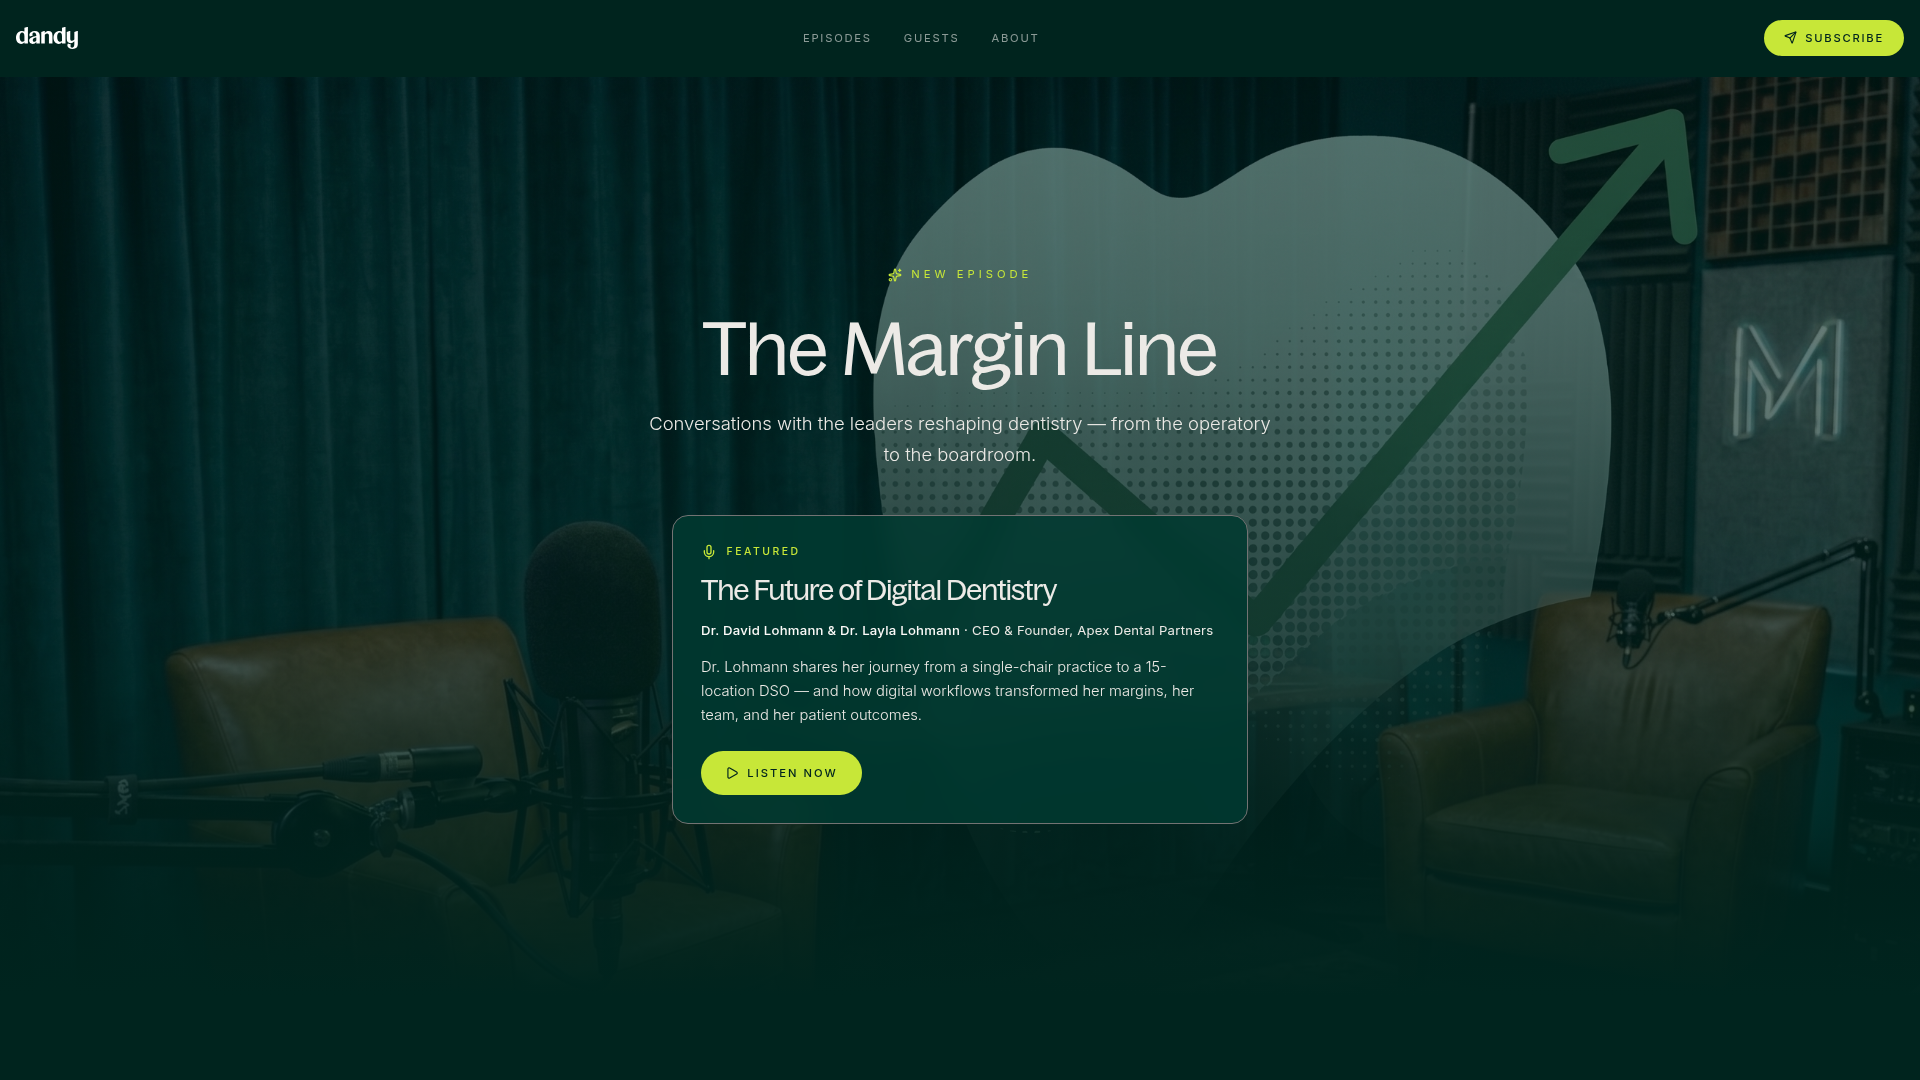
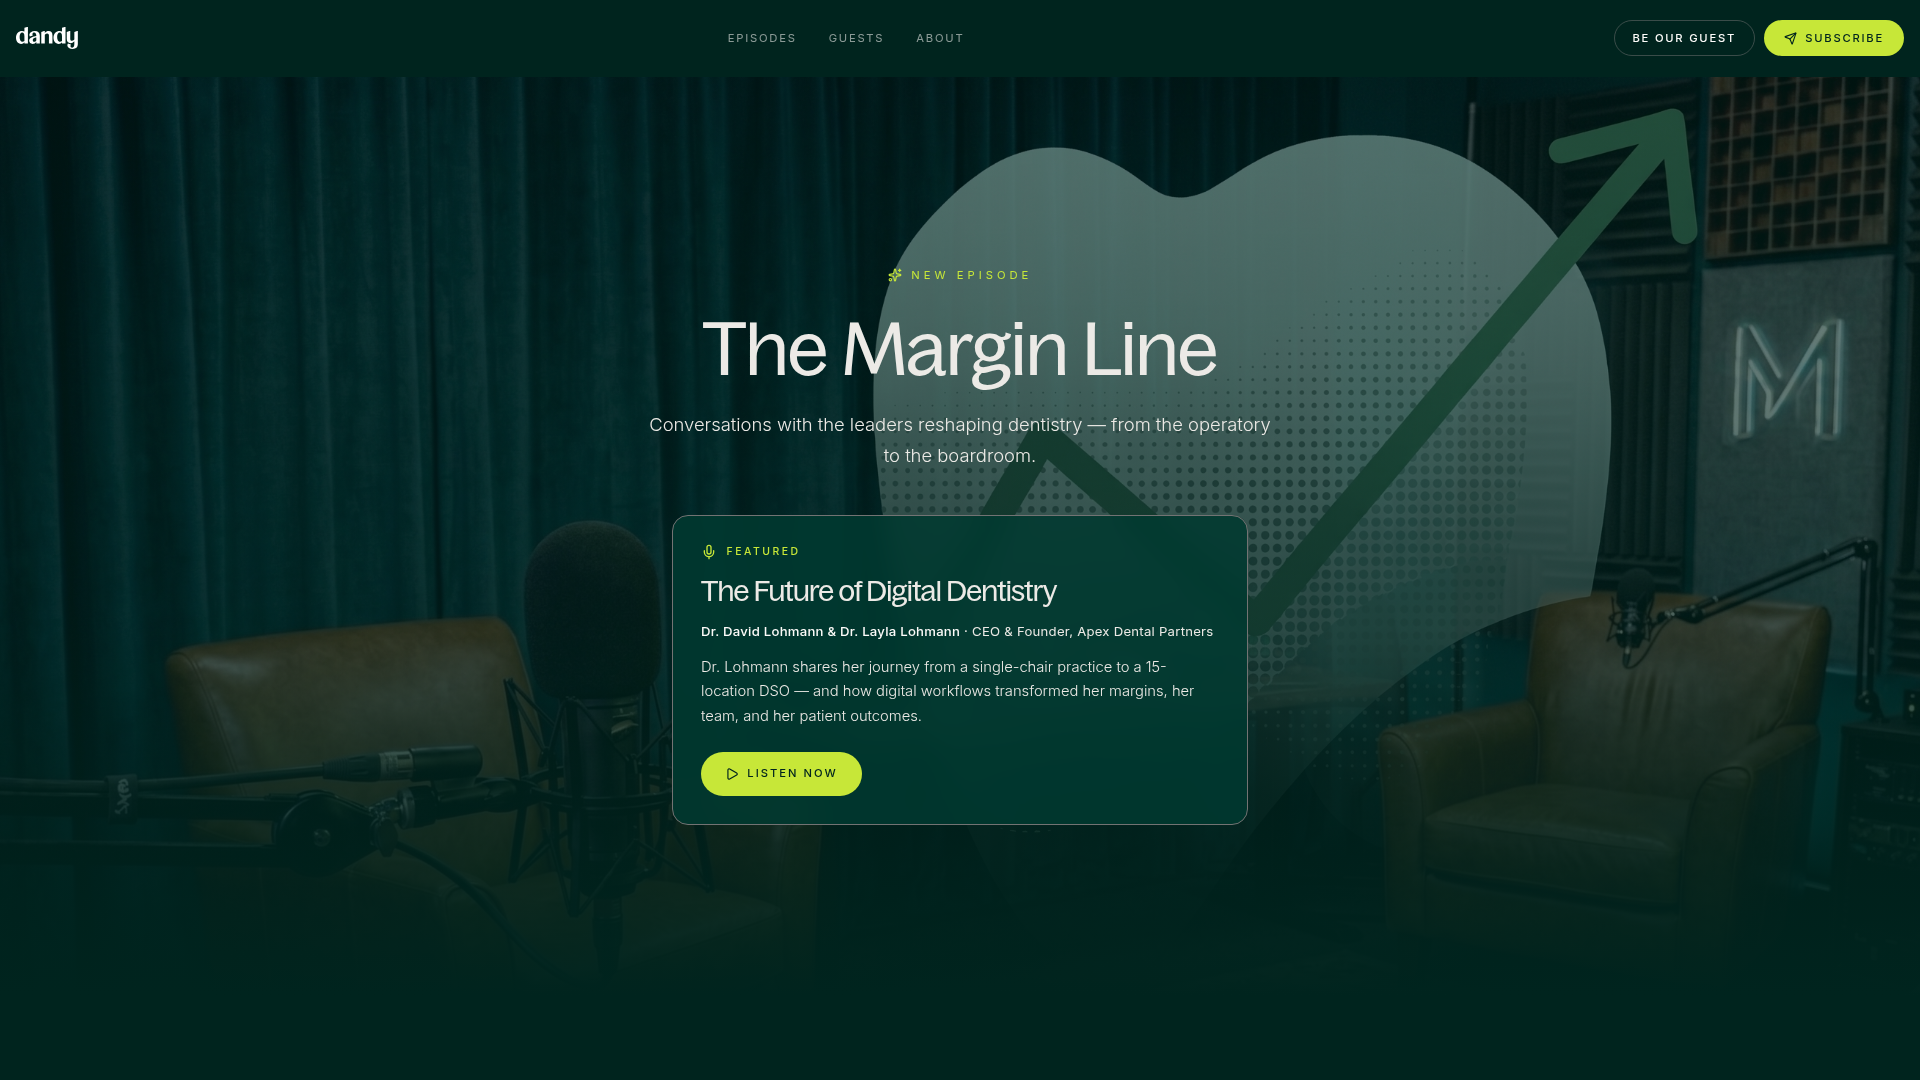
Published your App
Replit-Commit-Author: Deployment
Replit-Commit-Session-Id: f2e07015-601b-4411-b4f5-ec113359a203
Replit-Commit-Checkpoint-Type: full_checkpoint
Replit-Commit-Event-Id: 6bdcd809-b9cd-4dab-91b0-96249f3047cc
Replit-Commit-Screenshot-Url: https://storage.googleapis.com/screenshot-production-us-central1/b675546d-9cd7-487e-a83e-490be0d2ab55/f2e07015-601b-4411-b4f5-ec113359a203/vUl2Lgn
Replit-Commit-Deployment-Build-Id: d448dbac-376b-451b-ba9d-9d1e68b91e1c
Replit-Helium-Checkpoint-Created: true

diff --git a/artifacts/lp-studio/src/context/AuthContext.tsx b/artifacts/lp-studio/src/context/AuthContext.tsx
@@ -178,8 +178,22 @@ export function AuthProvider({ children }: { children: ReactNode }) {
           await new Promise((r) => setTimeout(r, delays[attempt]));
           if (cancelled) return;
         }
+        // Per-attempt hard timeout (6 s). iOS Safari has been observed
+        // leaving fetch() hanging indefinitely across network transitions
+        // (Wi-Fi ↔ cellular, iCloud Private Relay reconnects, Low Power
+        // Mode). AppShell renders only a spinner until this promise
+        // resolves, so a single hung attempt would block the entire app
+        // forever on otherwise-healthy iPad/iPhone sessions. With a
+        // bounded timeout the retry loop progresses and eventually
+        // either succeeds or surfaces an error UI instead of a stuck
+        // spinner.
+        const controller = typeof AbortController !== "undefined" ? new AbortController() : null;
+        const timeoutId = controller ? window.setTimeout(() => controller.abort(), 6000) : null;
         try {
-          const r = await fetch(url, { credentials: "include" });
+          const r = await fetch(url, {
+            credentials: "include",
+            ...(controller ? { signal: controller.signal } : {}),
+          });
           if (!r.ok) {
             lastErr = new Error(`HTTP ${r.status}`);
             continue;
@@ -199,13 +213,44 @@ export function AuthProvider({ children }: { children: ReactNode }) {
           return;
         } catch (err) {
           lastErr = err;
+        } finally {
+          if (timeoutId !== null) window.clearTimeout(timeoutId);
         }
       }
       if (cancelled) return;
       setDomainContextError(
         lastErr instanceof Error ? lastErr.message : "Failed to load domain context",
       );
-      setDomainContext(null);
+      // Failsafe fallback so AppShell never sits on its spinner forever
+      // when domain-context retries are exhausted (iOS Safari has been
+      // observed hanging fetch() across network transitions even though
+      // the server is healthy — see fetchWithRetry comment above).
+      //
+      // Infer a safe mode from the hostname rather than leaving
+      // domainContext as `null`, which AppShell treats as "still loading"
+      // and renders nothing but a spinner. The branches mirror the
+      // server's own host→mode resolution:
+      //   - lpstudio.ai / www.lpstudio.ai / app.lpstudio.ai → "open"
+      //   - any other host (custom domains, microsite domains, partner
+      //     subdomains like lp.meetdandy.com / partners.meetdandy.com)
+      //     → "microsite-only", which renders public LP routes only
+      //
+      // Picking the wrong mode here is far less harmful than a permanent
+      // spinner: at worst a logged-in admin on a flaky network briefly
+      // sees the microsite shell until they refresh, which is recoverable;
+      // a stuck spinner is not.
+      const host = typeof window !== "undefined" ? window.location.hostname.toLowerCase() : "";
+      const isOpenHost =
+        host === "lpstudio.ai" ||
+        host === "www.lpstudio.ai" ||
+        host === "app.lpstudio.ai";
+      setDomainContext({
+        mode: isOpenHost ? "open" : "microsite-only",
+        tenantId: null,
+        tenantName: null,
+        tenantSlug: null,
+        micrositeDomain: isOpenHost ? null : host,
+      });
     };
     void fetchWithRetry();
     return () => { cancelled = true; };

diff --git a/artifacts/lp-studio/src/pages/landing-page-viewer.tsx b/artifacts/lp-studio/src/pages/landing-page-viewer.tsx
@@ -442,6 +442,20 @@ export default function LandingPageViewer() {
     return () => { cancelled = true; };
   }, []);
 
+  // Watchdog — if we're still sitting on the loading spinner after 15 s,
+  // surface a friendly "Trouble loading" screen with a retry button instead
+  // of leaving the visitor staring at a perpetual spinner. iOS Safari has
+  // been observed leaving fetch() hanging indefinitely across network
+  // transitions (Wi-Fi ↔ cellular, iCloud Private Relay reconnects, Low
+  // Power Mode) — those would otherwise stick the page-config or brand
+  // queries forever. This is a last-resort net; the individual fetches
+  // (brand-config, domain-context) already have their own bounded timeouts.
+  const [spinnerTimedOut, setSpinnerTimedOut] = useState(false);
+  useEffect(() => {
+    const t = window.setTimeout(() => setSpinnerTimedOut(true), 15000);
+    return () => window.clearTimeout(t);
+  }, []);
+
   // Live custom-block sources for `custom-schema` rendering (task #120).
   // Schema-driven custom blocks store only a customBlockId reference, so
   // the renderer needs the live schema/template to interpolate values.
@@ -610,6 +624,29 @@ export default function LandingPageViewer() {
   }, [plToken]);
 
   if (isLoading || !brandLoaded || (!isPreviewMode && !sessionId)) {
+    // Watchdog tripped — surface a friendly retry UI rather than a forever
+    // spinner. See the `spinnerTimedOut` declaration above for context.
+    if (spinnerTimedOut) {
+      return (
+        <div className="min-h-screen flex items-center justify-center bg-white px-6">
+          <div className="text-center max-w-sm">
+            <h1 className="text-xl font-semibold mb-2" style={{ color: "#0A0A0A" }}>
+              Trouble loading this page
+            </h1>
+            <p className="text-sm text-slate-500 mb-6">
+              Your connection may have dropped. Please try again.
+            </p>
+            <button
+              onClick={() => window.location.reload()}
+              className="px-4 py-2 rounded-lg text-sm font-medium"
+              style={{ background: "#0A0A0A", color: "#fff" }}
+            >
+              Reload page
+            </button>
+          </div>
+        </div>
+      );
+    }
     return (
       <div className="min-h-screen flex items-center justify-center bg-white">
         {/* Use an explicit dark color rather than `text-foreground` — public LP

diff --git a/artifacts/lp-studio/src/hooks/use-visitor-session.ts b/artifacts/lp-studio/src/hooks/use-visitor-session.ts
@@ -1,6 +1,36 @@
 import { useState, useEffect } from "react";
 
 /**
+ * Generate a v4-ish UUID without relying on `crypto.randomUUID()`, which is
+ * only available on iOS Safari 15.4+. On older iPhones/iPads (and any other
+ * environment missing it) calling `crypto.randomUUID()` throws, which used
+ * to leave the public viewer's sessionId as "" forever — the page-config
+ * query is gated on `!!sessionId`, so the spinner never resolved. See
+ * landing-page-viewer.tsx and the iPad/iPhone "page won't load" report.
+ */
+function safeUuid(): string {
+  const c: Crypto | undefined =
+    typeof crypto !== "undefined" ? crypto : undefined;
+  if (c && typeof c.randomUUID === "function") {
+    try { return c.randomUUID(); } catch { /* fall through */ }
+  }
+  if (c && typeof c.getRandomValues === "function") {
+    const b = new Uint8Array(16);
+    c.getRandomValues(b);
+    b[6] = (b[6] & 0x0f) | 0x40;
+    b[8] = (b[8] & 0x3f) | 0x80;
+    const h = Array.from(b, (x) => x.toString(16).padStart(2, "0"));
+    return `${h.slice(0, 4).join("")}-${h.slice(4, 6).join("")}-${h.slice(6, 8).join("")}-${h.slice(8, 10).join("")}-${h.slice(10, 16).join("")}`;
+  }
+  // Last-ditch fallback (non-cryptographic). Acceptable because this ID is
+  // only used to bucket a visitor into the same A/B variant — not a secret.
+  return `xxxxxxxx-xxxx-4xxx-yxxx-xxxxxxxxxxxx`.replace(/[xy]/g, (ch) => {
+    const r = (Math.random() * 16) | 0;
+    return (ch === "x" ? r : (r & 0x3) | 0x8).toString(16);
+  });
+}
+
+/**
  * Manages a persistent session ID for visitors so they are consistently
  * bucketed into the same variant for a given test.
  */
@@ -15,7 +45,7 @@ export function useVisitorSession(testSlug: string) {
       let id = localStorage.getItem(key);
 
       if (!id) {
-        id = crypto.randomUUID();
+        id = safeUuid();
         try { localStorage.setItem(key, id); } catch { /* storage full / blocked */ }
       }
 
@@ -23,7 +53,7 @@ export function useVisitorSession(testSlug: string) {
     } catch {
       // localStorage blocked (e.g. private mode, storage quota) — generate a
       // temporary in-memory session ID so the page still loads.
-      setSessionId(crypto.randomUUID());
+      setSessionId(safeUuid());
     }
   }, [testSlug]);
 

diff --git a/artifacts/lp-studio/src/lib/brand-config.ts b/artifacts/lp-studio/src/lib/brand-config.ts
@@ -518,13 +518,24 @@ export function isValidHex(v: string): boolean {
 const BASE = import.meta.env.BASE_URL?.replace(/\/$/, "") ?? "";
 
 export async function fetchBrandConfig(): Promise<BrandConfig> {
+  // 8 s hard timeout. iOS Safari has been observed leaving fetch() hanging
+  // indefinitely across network transitions (Wi-Fi ↔ cellular, iCloud Private
+  // Relay reconnects, Low Power Mode), and the landing page viewer gates its
+  // render on this promise settling. Without a timeout, the spinner sticks
+  // forever on otherwise-healthy iPad/iPhone Safari sessions.
+  const controller = typeof AbortController !== "undefined" ? new AbortController() : null;
+  const timeoutId = controller
+    ? (typeof window !== "undefined" ? window.setTimeout(() => controller.abort(), 8000) : null)
+    : null;
   try {
-    const res = await fetch(`${BASE}/api/lp/brand`);
+    const res = await fetch(`${BASE}/api/lp/brand`, controller ? { signal: controller.signal } : undefined);
     if (!res.ok) return DEFAULT_BRAND;
     const data = await res.json();
     return { ...DEFAULT_BRAND, ...data };
   } catch {
     return DEFAULT_BRAND;
+  } finally {
+    if (timeoutId !== null && typeof window !== "undefined") window.clearTimeout(timeoutId);
   }
 }
 
